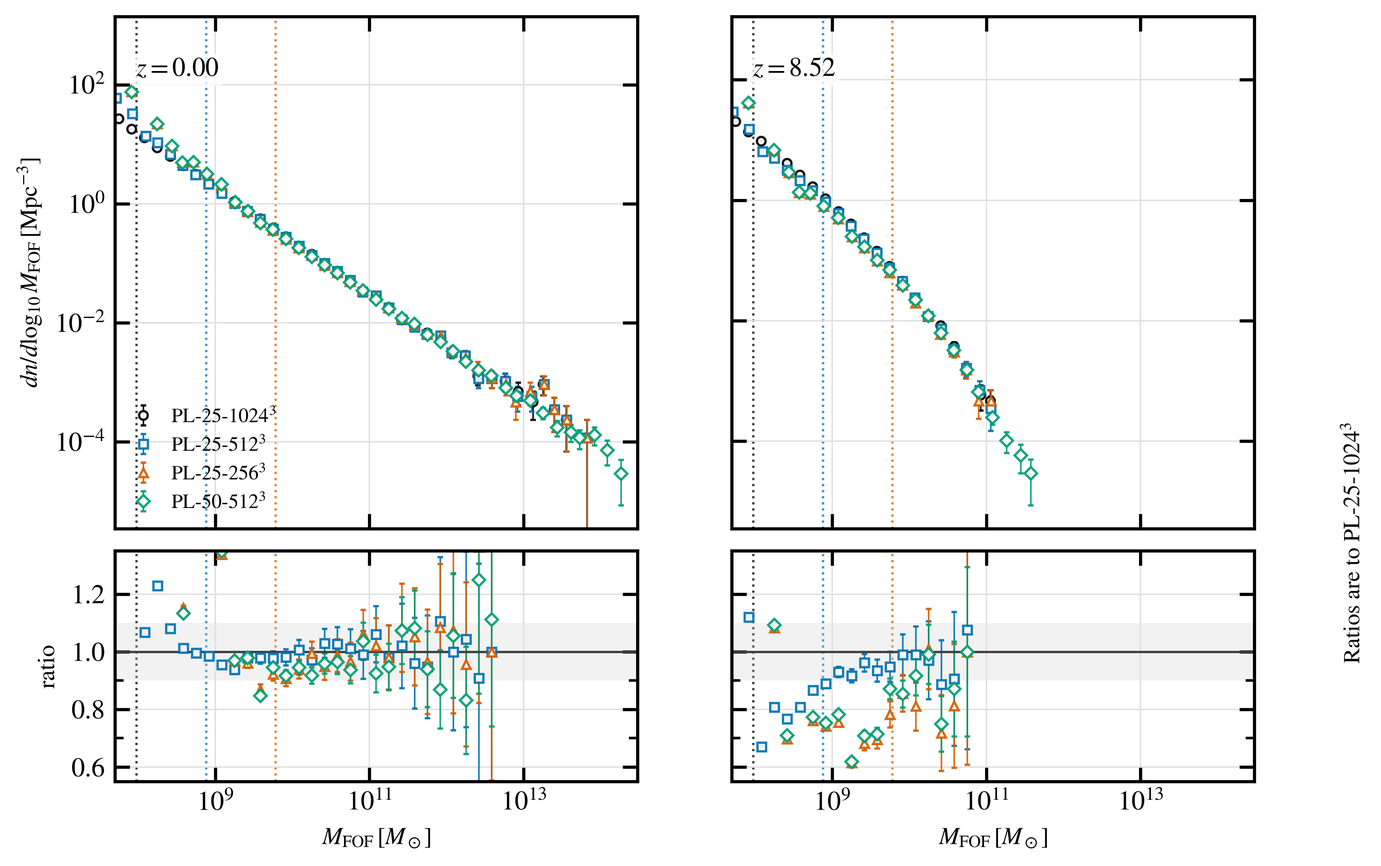
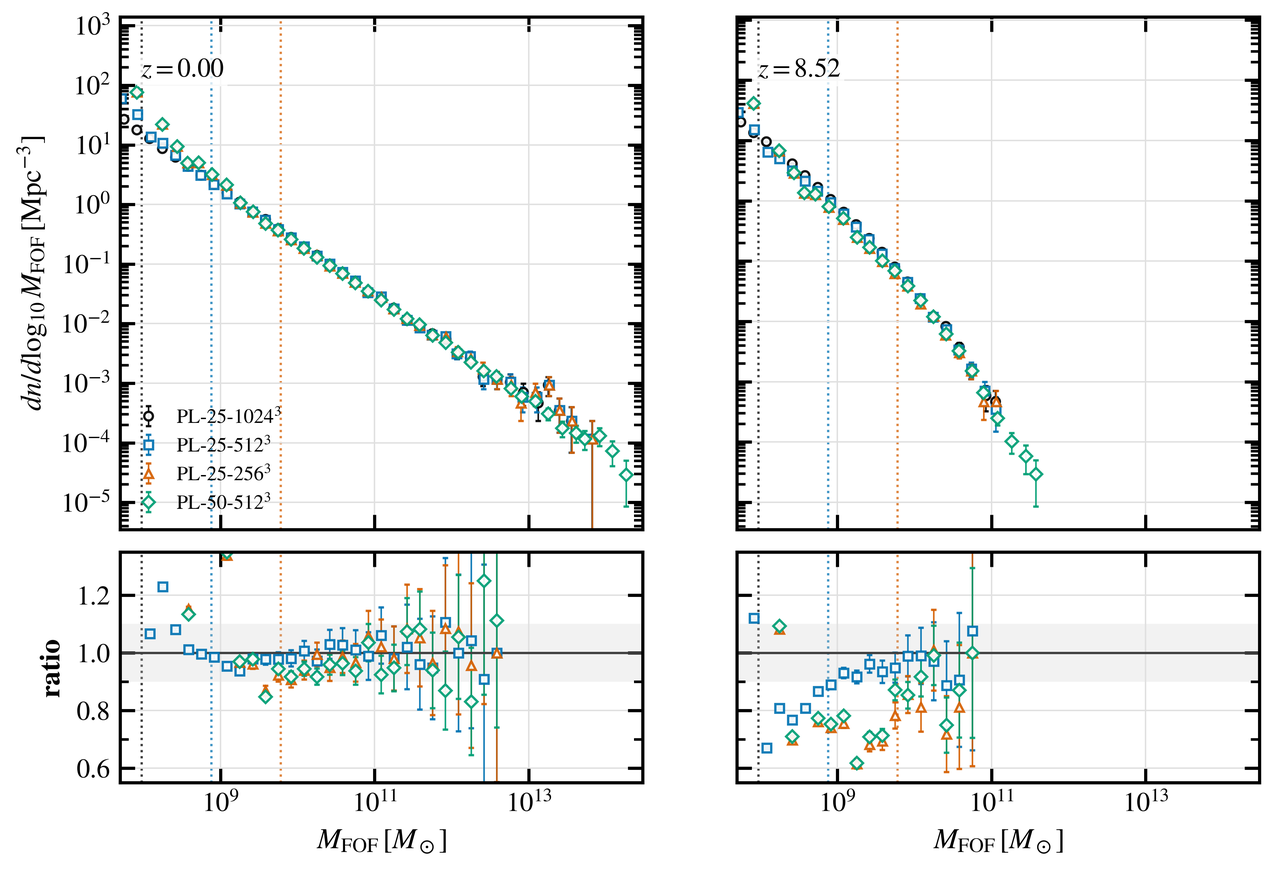
Address manuscript review and mark revisions

diff --git a/main.tex b/main.tex
@@ -23,6 +23,7 @@
 \usepackage{multirow}
 \usepackage{url}
 \usepackage{xcolor}
+\DeclareRobustCommand{\change}[1]{\textcolor{blue}{#1}}
 \newcommand{\tabcell}[2]{\parbox[t]{#1}{\raggedright #2}}
 \usepackage{hyperref}
 \usepackage{orcidlink}
@@ -121,7 +122,7 @@ The primordial power spectrum is specified by a PL or BT model such as Eq.~\eqre
 \subsection{Power-Spectrum Models and Linear Matter Power}
 \label{subsec:power_models}
 
-In the power-law (PL) model, the primordial power spectrum scales as \(P_{\rm prim}(k)\propto k^{n_s}\), where \(k\) is the comoving wavenumber and \(n_s\simeq0.96\) is the scalar spectral index \citep{Planck20CMB}.
+\change{In the power-law (PL) model, the primordial power spectrum scales as \(P_{\rm prim}(k)\propto k^{n_s}\), where \(k\) is the comoving wavenumber and \(n_s\simeq0.965\) is the scalar spectral index \citep{Planck20CMB}.}
 
 We model small-scale enhancements with blue-tilted (BT) primordial power-spectrum models \citep[e.g.][]{Hira24bluetilt,Dekker25DwarfPPS}. In these models, the spectrum follows the PL form up to \(k_p\) and becomes steeper above \(k_p\):
 \begin{equation}
@@ -170,7 +171,7 @@ Table~\ref{tab:simulation_parameters} lists the cosmological and numerical param
 
 
 \subsection{Initial Conditions}\label{sec:IC}
-We generate the initial conditions with \textsc{Music2-MonofonIC} \citep{Hahn2020MUSIC2monofonIC,Michaux2021MUSIC2monofonIC}. PL uses the Eisenstein \& Hu transfer function \citep{Eisenstein1998}. For each BT model, we modify the transfer function above \(k_p\). MonofonIC then applies a small model-dependent global normalization to reach the shared target \(\sigma_8=0.8111\). Below \(k_p\), the BT models retain the PL/Eisenstein transfer-function shape, with only this small change in overall amplitude.
+\change{We generate the initial conditions with \textsc{Music2-MonofonIC} \citep{Hahn2020MUSIC2monofonIC,Michaux2021MUSIC2monofonIC}. PL uses the Eisenstein \& Hu transfer function \citep{Eisenstein1998}. For each BT model, we modify the transfer function above \(k_p\). MonofonIC then applies a small model-dependent global normalization to reach the shared target \(\sigma_8=0.8111\). Below \(k_p\), the BT models retain the PL/Eisenstein shape. Over \(0.01\le k/(h\,{\rm Mpc}^{-1})\le0.1\), the input linear power is about \(0.033\%\) lower than PL for \BTKPone{} and about \(9\times10^{-6}\%\) lower for \BTKPten{}.}
 
 For each set of corresponding PL and BT runs, we keep the background cosmology, numerical settings, and MonofonIC random seed fixed. The main PL, \BTKPone{}, and \BTKPten{} \(25\,h^{-1}{\rm Mpc}\), \(1024^3\) simulations therefore share the same initial random phases. Using the same phases reduces sample variance in the PL--BT comparisons.
 
@@ -200,11 +201,11 @@ Table~\ref{tab:simulation_parameters} lists the three simulations used for the m
 
 
 
-PL denotes the standard power-law primordial spectrum. Both BT models have \(m_s=1.5\), with \(k_p=1\,h\,{\rm Mpc}^{-1}\) for \BTKPone{} and \(k_p=10\,h\,{\rm Mpc}^{-1}\) for \BTKPten{}. The \(256\,h^{-1}{\rm Mpc}\) power-spectrum measurements are retained in the released auxiliary data; Fig.~\ref{fig:power_spectra_ratio_z0} uses the \(25\,h^{-1}{\rm Mpc}\) runs. The additional PL runs used for resolution and volume tests are described in Appendix~\ref{app:fof_hmf_resolution}. Appendix~\ref{app:trusted_ranges} and Table~\ref{tab:trusted_ranges} list the ranges used for quantitative statements.
+\change{PL denotes the standard power-law primordial spectrum. Both BT models have \(m_s=1.5\), with \(k_p=1\,h\,{\rm Mpc}^{-1}\) for \BTKPone{} and \(k_p=10\,h\,{\rm Mpc}^{-1}\) for \BTKPten{}. We also use \(256\,h^{-1}{\rm Mpc}\) PL, \BTKPone{}, and \BTKPten{} runs for the halo--matter bias measurement. The power-spectrum measurements from these runs are available in the auxiliary data. Figure~\ref{fig:power_spectra_ratio_z0} uses the \(25\,h^{-1}{\rm Mpc}\) runs. The particle masses in Table~\ref{tab:simulation_parameters} are given in \(h^{-1}M_\odot\). For \(h=0.6736\), the particle mass in the \(25\,h^{-1}{\rm Mpc}\) runs is \(1.89\times10^6\,M_\odot\). Halo masses and comoving number densities in the mass-function analysis are given in \(M_\odot\) and \({\rm Mpc}^{-3}\), respectively. The additional PL runs used for resolution and volume tests are described in Appendix~\ref{app:fof_hmf_resolution}. Appendix~\ref{app:trusted_ranges} and Table~\ref{tab:trusted_ranges} list the ranges used for quantitative statements.}
 
 
 \begin{table*}[t]
-\caption{Parameters of the three cosmological \(N\)-body simulations used for the main analysis. The \(k_p\) and \(m_s\) columns specify the primordial power-spectrum models (see \S\ref{sec:theory}); \(N_{\rm p}\) is the particle number; \(L_{\rm box}\) is the comoving box length; \(m_{\rm DM}\) is the dark matter particle mass; and \(\epsilon_{\rm Pl}\) is the Plummer-equivalent softening length in physical kpc at \(z=0\). All three runs share the same initial random phases. Additional PL simulations used for resolution and volume tests are described in Appendix~\ref{app:fof_hmf_resolution}.}
+\caption{\change{Parameters of the cosmological \(N\)-body simulations used in the main analysis. The \(k_p\) and \(m_s\) columns specify the primordial power-spectrum models (see \S\ref{sec:theory}); \(N_{\rm p}\) is the particle number; \(L_{\rm box}\) is the comoving box length; \(m_{\rm DM}\) is the dark matter particle mass; and \(\epsilon_{\rm Pl}\) is the Plummer-equivalent softening length in physical kpc at \(z=0\). The three \(25\,h^{-1}{\rm Mpc}\) runs share the same initial random phases. Additional PL simulations used for resolution and volume tests are described in Appendix~\ref{app:fof_hmf_resolution}.}}
 \label{tab:simulation_parameters}
 \label{tab:Params_all_models}
 \centering
@@ -216,6 +217,10 @@ Model & \(k_p\) & \(m_s\) & \(N_{\rm p}\) & \(L_{\rm box}\) & \(m_{\rm DM}\) & \
 PL & -- & -- & \(1024^3\) & 25 & \(1.27\times 10^6\) & 0.725 \\
 \BTKPone{} & 1 & 1.5 & \(1024^3\) & 25 & \(1.27\times 10^6\) & 0.725 \\
 \BTKPten{} & 10 & 1.5 & \(1024^3\) & 25 & \(1.27\times 10^6\) & 0.725 \\
+\colrule
+\change{PL} & \change{--} & \change{--} & \change{\(1024^3\)} & \change{256} & \change{\(1.37\times 10^9\)} & \change{7.42} \\
+\change{\BTKPone{}} & \change{1} & \change{1.5} & \change{\(1024^3\)} & \change{256} & \change{\(1.37\times 10^9\)} & \change{7.42} \\
+\change{\BTKPten{}} & \change{10} & \change{1.5} & \change{\(1024^3\)} & \change{256} & \change{\(1.37\times 10^9\)} & \change{7.42} \\
 \end{tabular}
 \end{ruledtabular}
 \end{table*}
@@ -293,14 +298,14 @@ Within the resolved mass range, both blue-tilted models increase the low-mass FO
 
 %The corresponding spherical-overdensity $M_{200c}$ comparison with Bocquet et al. (2016) is shown in Fig.~\ref{fig:m200c_bocquet16_hmf}.
 
-We also measure the halo mass function using the spherical-overdensity mass definition \(M_{200c}\). Here the logarithmic mass bins have width \(\Delta\log_{10}M_{200c}=0.15\) dex, and the plotted mass coordinate is the geometric bin center, \(M_{\rm cen}=\sqrt{M_{\rm low}M_{\rm high}}\), where \(M_{\rm low}\) and \(M_{\rm high}\) are the bin edges. The number density is the halo count divided by the comoving volume and logarithmic bin width. The simulation points are measured from the SOAP \texttt{SO/200\_crit} catalogs with a minimum of 100 dark matter particles per halo, corresponding to \(M_{200c}\simeq1.9\times10^8\,M_\odot\) in the main runs, and the plotted bins also impose \(M_{200c}\ge2.0\times10^8\,M_\odot\). We evaluate the Bocquet et al. (2016) \(M_{200c}\) mass function \citep{Bocquet2016} using the linear matter power spectrum of each model: PL, \BTKPone{}, and \BTKPten{}.
+\change{We also measure the halo mass function using the spherical-overdensity mass definition \(M_{200c}\). Here the logarithmic mass bins have width \(\Delta\log_{10}M_{200c}=0.15\) dex, and the plotted mass coordinate is the geometric bin center, \(M_{\rm cen}=\sqrt{M_{\rm low}M_{\rm high}}\), where \(M_{\rm low}\) and \(M_{\rm high}\) are the bin edges. We obtain \(dn/d\ln M_{200c}\) by dividing the halo count by the comoving volume and the natural-log bin width, \(\Delta\ln M_{200c}=0.15\ln 10\). The simulation points are measured from the SOAP \texttt{SO/200\_crit} catalogs with a minimum of 100 dark matter particles per halo, corresponding to \(M_{200c}\simeq1.9\times10^8\,M_\odot\) in the main runs, and the plotted bins also impose \(M_{200c}\ge2.0\times10^8\,M_\odot\). We evaluate the Bocquet et al. (2016) \(M_{200c}\) mass function \citep{Bocquet2016} using the linear matter power spectrum of each model: PL, \BTKPone{}, and \BTKPten{}.}
 
 We quantify the agreement using the median simulation-to-model ratio across mass bins above the adopted mass limit and containing at least 20 halos. At \(z=0\) and \(z=3.44\), this median differs from unity by less than \(8\%\) for every model in both the Reed et al. (2007) FOF and Bocquet et al. (2016) \(M_{200c}\) comparisons. At \(z=8.52\), the median differences increase to \(2\)--\(22\%\) for Reed et al. (2007) and \(16\)--\(32\%\) for Bocquet et al. (2016). Larger deviations occur in sparsely populated high-mass bins. Thus, the median agreement is strongest at lower redshift and less uniform at high redshift.
 
 \begin{figure*}[t]
     \centering
     \includegraphics[width=\textwidth]{mass-function-m200c-bocquet16.png}
-    \caption{Spherical-overdensity halo mass function comparison using \(M_{200c}\) masses and the Bocquet et al. (2016) (B16) fitting function. Symbols show the measured SOAP \(M_{200c}\) mass functions for PL, \BTKPone{}, and \BTKPten{}, while lines show the corresponding Bocquet et al. (2016) predictions evaluated with each model's linear matter power spectrum generated from the PL or BT primordial power-spectrum model. The SOAP catalog threshold is \(N_{\rm DM}\ge100\), where \(N_{\rm DM}\) is the number of dark matter particles in a halo. The plotted bins require \(M_{200c}\ge2.0\times10^8\,M_\odot\), close to the 100-particle scale \(1.9\times10^8\,M_\odot\). The gray vertical band marks the low-mass region below this plotted completeness threshold. Middle panels show \(\BTKPone/\mathrm{PL}\) and \(\BTKPten/\mathrm{PL}\) mass-function ratios in the same \(M_{200c}\) bins. The middle-panel y-axis range is set separately for each redshift row. Here \(f\equiv dn/d\log_{10}M_{200c}\). Bottom panels show \(\Delta f/f_{\rm B16}=(f_{\rm sim}-f_{\rm B16})/f_{\rm B16}\). Zero denotes agreement with B16. These panels use a symmetric logarithmic scale with a linear interval for \(|\Delta f/f_{\rm B16}|\le0.1\). The horizontal gray band marks this \(\pm10\%\) interval, and the y-axis range is set separately for each redshift row.}
+    \caption{\change{Spherical-overdensity halo mass function comparison using \(M_{200c}\) masses and the Bocquet et al. (2016) (B16) fitting function. Symbols show the measured SOAP \(M_{200c}\) mass functions for PL, \BTKPone{}, and \BTKPten{}, while lines show the corresponding Bocquet et al. (2016) predictions evaluated with each model's linear matter power spectrum generated from the PL or BT primordial power-spectrum model. The SOAP catalog threshold is \(N_{\rm DM}\ge100\), where \(N_{\rm DM}\) is the number of dark matter particles in a halo. The plotted bins require \(M_{200c}\ge2.0\times10^8\,M_\odot\), close to the 100-particle scale \(1.9\times10^8\,M_\odot\). The gray vertical band marks the low-mass region below this plotted completeness threshold. Middle panels show \(\BTKPone/\mathrm{PL}\) and \(\BTKPten/\mathrm{PL}\) mass-function ratios in the same \(M_{200c}\) bins. The middle-panel y-axis range is set separately for each redshift row. Here \(f\equiv dn/d\ln M_{200c}\). Bottom panels show \(\Delta f/f_{\rm B16}=(f_{\rm sim}-f_{\rm B16})/f_{\rm B16}\). Zero denotes agreement with B16. These panels use a symmetric logarithmic scale with a linear interval for \(|\Delta f/f_{\rm B16}|\le0.1\). The horizontal gray band marks this \(\pm10\%\) interval, and the y-axis range is set separately for each redshift row.}}
     \label{fig:m200c_bocquet16_hmf}
 \end{figure*}
 
@@ -309,7 +314,7 @@ We quantify the agreement using the median simulation-to-model ratio across mass
 \begin{figure*}[t]
     \centering
     \includegraphics[width=\textwidth]{halo-bias.pdf}
-    \caption{Halo--matter bias for PL, \BTKPone{}, and \BTKPten{}. Circles and triangles show FOF groups in the \(256\) and \(25\,h^{-1}{\rm Mpc}\) boxes, respectively. Diamonds show \textsc{SOAP} \(M_{200m}\) measurements for \textsc{HBT+} centrals in the smaller box. Error bars are jackknife uncertainties obtained by omitting one independent Fourier mode at a time. Solid and dashed lines show Tinker et al. (2010) at \(M_{200m}\) and Sheth--Tormen (1999), respectively. The two boxes sample the different \(k\) intervals specified in the text. At \(z=10.52\), only the smaller box has mass bins that pass the selection cuts.}
+    \caption{\change{Halo--matter bias for PL, \BTKPone{}, and \BTKPten{}. Circles and triangles show FOF groups in the \(256\) and \(25\,h^{-1}{\rm Mpc}\) boxes, respectively. Diamonds show \textsc{SOAP} \(M_{200m}\) measurements for \textsc{HBT+} centrals in the smaller box. Error bars are jackknife uncertainties obtained by omitting one independent Fourier mode at a time. Solid and dashed lines show Tinker et al. (2010) \protect\cite{Tinker2010HaloBias} at \(M_{200m}\) and Sheth--Tormen (1999) \protect\cite{ShethTormen1999Bias}, respectively. Halo masses are shown in \(h^{-1}M_\odot\). The two boxes sample the different \(k\) intervals specified in the text. At \(z=10.52\), only the smaller box has mass bins that pass the selection cuts.}}
     \label{fig:halo_bias}
 \end{figure*}
 
@@ -321,10 +326,10 @@ The mass function measures the abundance of halos. To measure how halos trace th
 \end{equation}
 where the sums run over independent Fourier modes in the selected \(k\) interval. We use \(0.03\leq k/(h\,{\rm Mpc}^{-1})\leq0.15\) for the \(256\,h^{-1}{\rm Mpc}\) box and \(0.25\leq k/(h\,{\rm Mpc}^{-1})\leq0.60\) for the \(25\,h^{-1}{\rm Mpc}\) box. Each halo contains at least 100 dark matter particles, and each \(0.30\)-dex mass bin contains at least 200 halos. We plot the median mass in each bin. The FOF measurements use the group masses as recorded in the catalogs. For PL and \BTKPone{} in the smaller box, we also measure bias for \textsc{HBT+} central halos \citep{Han2018HBTPlus} using their \textsc{SOAP} \(M_{200m}\), the mass enclosed at 200 times the mean matter density.
 
-Figure~\ref{fig:halo_bias} compares the measurements with the \citet{ShethTormen1999Bias} and \citet{Tinker2010HaloBias} relations. We evaluate both at \(\nu=\delta_{\rm c}/\sigma(M,z)\), with \(\delta_{\rm c}=1.686\) and \(\sigma(M,z)\) computed from the linear matter spectrum of each model. At \(z=6.15\) in the smaller box, the median \BTKPone{}/PL bias ratio across the seven common mass bins is \(0.58\) for FOF and \(0.59\) for the \(M_{200m}\) sample. The corresponding \BTKPten{}/PL FOF ratio is \(1.00\). At \(z=10.52\), the small-box \(M_{200m}\) points lie closer to Sheth--Tormen in both PL and \BTKPone{}. This comparison uses the small-box \(k\) window and extends beyond the redshift range of the Tinker calibration, which reaches \(z=2.5\).
+\change{Figure~\ref{fig:halo_bias} shows the \citet{ShethTormen1999Bias} relation, based on spherical-overdensity halo catalogs, and the \citet{Tinker2010HaloBias} relation for \(M_{200m}\). We evaluate both at \(\nu=\delta_{\rm c}/\sigma(M,z)\), with \(\delta_{\rm c}=1.686\). We compute \(\sigma(M,z)\) by smoothing each model's linear density field with a spherical top-hat window whose comoving radius encloses mass \(M\) at the present mean matter density. The comparison with the FOF measurements therefore uses a different halo mass definition. At \(z=6.15\) in the smaller box, the median \BTKPone{}/PL bias ratio across the seven common mass bins is \(0.58\) for FOF and \(0.59\) for the \(M_{200m}\) sample. The corresponding \BTKPten{}/PL FOF ratio is \(1.00\). At \(z=10.52\), the small-box \(M_{200m}\) points lie closer to Sheth--Tormen in both PL and \BTKPone{}. This comparison uses the small-box \(k\) window and extends beyond the redshift range of the Tinker calibration, which reaches \(z=2.5\).}
 
 \subsection{Half-Mass Redshift\label{subsub:HMR}}
-The half-mass assembly redshift, \(z_{1/2}\), is the redshift at which a \(z=0\) halo first reaches half of its final FOF mass. We use the main progenitor branch defined in Sec.~\ref{subsec:halo_catalogs}. For each \(z=0\) FOF halo, we follow its persistent \textsc{HBT-HERONS} \texttt{TrackId} over snapshots 0021--0056 and record its Warren-corrected FOF mass. We determine \(z_{1/2}\) by linear interpolation between the first pair of consecutive snapshots in which the recorded FOF mass increases through \(M_0/2\). The same procedure is applied to PL, \BTKPone{}, and \BTKPten{}.
+\change{The half-mass assembly redshift, \(z_{1/2}\), is the redshift at which a \(z=0\) halo first reaches half of its final FOF mass \(M_0\). We use the main progenitor branch defined in Sec.~\ref{subsec:halo_catalogs}. For each \(z=0\) FOF halo, we follow its persistent \textsc{HBT-HERONS} \texttt{TrackId} over snapshots 0021--0056 and record its Warren-corrected FOF mass. We determine \(z_{1/2}\) by linear interpolation between the first pair of consecutive snapshots in which the recorded FOF mass increases through \(M_0/2\). The same procedure is applied to PL, \BTKPone{}, and \BTKPten{}.}
 
 We do not fill missing snapshots or force the recorded mass histories to increase monotonically. Temporary FOF bridge or split events can therefore remove a halo from the measurable sample or produce a temporary mass decrease.
 
@@ -332,9 +337,9 @@ Figure~\ref{fig:half_mass_redshift} compares our measurements with the relations
 
 For the 15 resolved PL bins spanning \(1.25\times10^9\le M_{\rm FOF}/M_\odot\le8.22\times10^{11}\), the mean absolute offset \(\langle|z_{1/2}^{\rm PL}-z_{1/2}^{\rm ref}|\rangle\) is \(0.053\) from BK09 and \(0.097\) from COCO/Hellwing16. The maximum absolute offsets are \(0.128\) and \(0.207\), respectively. Thus, the PL measurements follow both external relations to within about \(0.1\) in \(z_{1/2}\) on average.
 
-At low final masses, halos in both blue-tilted models form earlier than PL halos, with the largest shift in \BTKPone{}. Around \(M_{z=0}\simeq1.25\times10^9\,M_\odot\), the mean \(z_{1/2}\) is \(2.28\) for PL, \(4.24\) for \BTKPone{}, and \(2.61\) for \BTKPten{}. The corresponding shifts relative to PL are \(\Delta z_{1/2}=1.96\) for \BTKPone{} and \(0.33\) for \BTKPten{}.
+\change{At low final masses, halos in both blue-tilted models form earlier than PL halos, with the largest shift in \BTKPone{}. Around \(M_0\simeq1.25\times10^9\,M_\odot\), the mean \(z_{1/2}\) is \(2.28\) for PL, \(4.24\) for \BTKPone{}, and \(2.61\) for \BTKPten{}. The corresponding shifts relative to PL are \(\Delta z_{1/2}=1.96\) for \BTKPone{} and \(0.33\) for \BTKPten{}.}
 
-Around \(M_{z=0}\simeq7.9\times10^9\,M_\odot\), the mean \(z_{1/2}\) values are \(1.95\), \(3.12\), and \(2.05\) for PL, \BTKPone{}, and \BTKPten{}, giving BT--PL shifts of \(1.17\) and \(0.10\). At \(M_{z=0}\simeq2.0\times10^{11}\,M_\odot\), the values are \(1.43\), \(1.78\), and \(1.39\), respectively. The model with the largest high-redshift HMF enhancement therefore also has the largest assembly-time shift, especially below \(\sim10^{10}\,M_\odot\).
+\change{Around \(M_0\simeq7.9\times10^9\,M_\odot\), the mean \(z_{1/2}\) values are \(1.95\), \(3.12\), and \(2.05\) for PL, \BTKPone{}, and \BTKPten{}, giving BT--PL shifts of \(1.17\) and \(0.10\). At \(M_0\simeq2.0\times10^{11}\,M_\odot\), the values are \(1.43\), \(1.78\), and \(1.39\), respectively. The model with the largest high-redshift HMF enhancement therefore also has the largest assembly-time shift, especially below \(\sim10^{10}\,M_\odot\).}
 
 \begin{figure*}[t]
     \centering
@@ -355,9 +360,8 @@ At each snapshot, only halos with an identified main progenitor contribute to th
 
 %\Tk{cite  (Bond et al. 1991; Lacey \& Cole 1993) for EPS}
 
-We compare these histories with the \citet{Correa2015MAHI} mass-assembly model. This model is based on the extended Press--Schechter (EPS) framework \citep{Bond1991ExcursionSet,LaceyCole1993MergerRates}:
+\change{We compare these histories with the \citet{Correa2015MAHI} mass-assembly model. This model is based on the extended Press--Schechter (EPS) framework \citep{Bond1991ExcursionSet,LaceyCole1993MergerRates}.}
 
-In the Correa model, \(\widetilde z_{\rm f}\) is defined by \(M(\widetilde z_{\rm f})=M_0/q\). This differs from the half-mass redshift \(z_{1/2}\), defined by \(M(z_{1/2})=M_0/2\).
 \begin{equation}
 \label{eq:correa2015_mah}
 M(z)=M_0(1+z)^{a f(M_0)}\exp[-f(M_0)z],
@@ -378,6 +382,7 @@ q&=4.137\,\widetilde z_{\rm f}^{-0.9476}.
 \end{aligned}
 \label{eq:correa_q_closure}
 \end{equation}
+\change{The Correa formation redshift satisfies \(M(\widetilde z_{\rm f})=M_0/q\), while the half-mass redshift satisfies \(M(z_{1/2})=M_0/2\).}
 
 For the Correa-EPS curves, we use the Planck 2018 cosmology in Sec.~\ref{subsec:cosmo_params} for linear growth, the mean matter density that sets the smoothing scale, and the normalization of the PL and \BTKPone{} linear matter power spectra, and adopt the WMAP5 relations for \(\widetilde z_{\rm f}(M_0)\) and \(q(\widetilde z_{\rm f})\) from \citet{Correa2015MAHI}. For the model curves, we evaluate \(a=1+1.686\sqrt{2/\pi}\,[\mathrm{d}D/\mathrm{d}z]_{z=0}=0.292\) using the Planck 2018 growth factor, normalized to \(D(0)=1\), and compute \(S(M)\) from each simulation model's linear spectrum. The parameter \(q\) sets the progenitor mass scale \(M_0/q\) in the EPS calculation. Across the six mass bins in Fig.~\ref{fig:mass_assembly_history_correa}, \(q\) ranges from 2.68 to 3.20. At fixed \(M_0\), we use the same \(q\), \(\widetilde z_{\rm f}\), and \(a\) for PL and \BTKPone{}. The two predictions differ only because their linear matter power spectra give different values of \(S(M_0/q)-S(M_0)\). None of these parameters is fitted to our simulations.
 
@@ -397,7 +402,7 @@ The same trend follows from Eqs.~(\ref{eq:correa2015_mah}) and (\ref{eq:correa20
 \begin{figure*}[t]
     \centering
     \includegraphics[width=\textwidth]{mass-assembly-history-correa.png}
-    \caption{{\it Upper panel:} Median FOF mass-assembly histories for halos selected at \(z=0\). Circles show PL simulation medians, and triangles show \BTKPone{} medians; the figure legend abbreviates the latter as BT. Colors indicate six final-mass windows centered on \(10^9\), \(3\times10^9\), \(10^{10}\), \(3\times10^{10}\), \(10^{11}\), and \(3\times10^{11}\,M_\odot\), each with a half-width of 0.1 dex. Halos are followed through their persistent \texttt{TrackId}, and each point is the median positive Warren-corrected FOF mass among the selected halos detected at that snapshot. Error bars show the 16th--84th percentile halo-to-halo range of \(M(z)\) in each final-mass window. Dashed and dotted curves show the Correa-EPS calculations using the published \(q\) and \(\widetilde z_{\rm f}\) relations and the PL or \BTKPone{} linear matter power spectrum. {\it Middle panel:} Ratio of each simulation median to the corresponding Correa-EPS curve at the same redshift. The error bars show the same halo-to-halo intervals divided by the Correa-EPS value. {\it Lower panel:} Ratio of the normalized \BTKPone{} and PL simulation histories, \((M/M_0)_{\rm BT}/(M/M_0)_{\rm PL}\), in each final-mass window. Horizontal lines mark unity. Quantitative interpretation is restricted to \(M_0\ge10^9\,M_\odot\).}
+    \caption{\change{{\it Upper panel:} Median FOF mass-assembly histories for halos selected at \(z=0\). Circles show PL simulation medians, and triangles show \BTKPone{} medians. Colors indicate six final-mass windows centered on \(10^9\), \(3\times10^9\), \(10^{10}\), \(3\times10^{10}\), \(10^{11}\), and \(3\times10^{11}\,M_\odot\), each with a half-width of 0.1 dex. Halos are followed through their persistent \texttt{TrackId}, and each point is the median positive Warren-corrected FOF mass among the selected halos detected at that snapshot. Error bars show the 16th--84th percentile halo-to-halo range of \(M(z)\) in each final-mass window. Dashed and dotted curves show the Correa-EPS calculations using the published \(q\) and \(\widetilde z_{\rm f}\) relations and the PL or \BTKPone{} linear matter power spectrum. {\it Middle panel:} Ratio of each simulation median to the corresponding Correa-EPS curve at the same redshift. The error bars show the same halo-to-halo intervals divided by the Correa-EPS value. {\it Lower panel:} Ratio of the normalized \BTKPone{} and PL simulation histories, \((M/M_0)_{\rm BT}/(M/M_0)_{\rm PL}\), in each final-mass window. Horizontal lines mark unity. Quantitative interpretation is restricted to \(M_0\ge10^9\,M_\odot\).}}
     \label{fig:mass_assembly_history_correa}
 \end{figure*}
 
@@ -455,9 +460,9 @@ A separate study in preparation (Wu, Chan, Lange, \& Huang) examines the Diemer 
 
 \subsection{Power Spectrum\label{subsub:PS}}
 
-We measure the nonlinear matter power spectrum from the full dark matter density field. For each snapshot, we assign particle masses to the nearest cells of a \(1024^3\) Cartesian mesh and compute the isotropically averaged spectrum with the \textsc{swiftsimio} power-spectrum utilities. We subtract the Poisson term \(P_{\rm shot}=L_{\rm box}^3/N_{\rm p}\), where \(N_{\rm p}\) is the total number of particles. The nearest-grid-point window is not deconvolved. We use the phase-pair-averaged spectra \citep{Pontzen2016Inverted} (see \S\ref{sec:IC} for details) for the \(25\,h^{-1}{\rm Mpc}\) runs and form the BT/PL ratios from these spectra.
+\change{We measure the nonlinear matter power spectrum from the full dark matter density field. For each snapshot, we assign particle masses to the nearest cells of a \(1024^3\) Cartesian mesh and compute the isotropically averaged spectrum with the \textsc{swiftsimio} power-spectrum utilities. We subtract the Poisson term \(P_{\rm shot}=L_{\rm box}^3/N_{\rm p}\), where \(N_{\rm p}\) is the total number of particles. The absolute spectra include smoothing by the nearest-grid-point window. A common window factor cancels in the ratio of individual BT and PL modes. The ratios of shell-averaged spectra can still contain residual aliasing. We use the phase-pair-averaged spectra \citep{Pontzen2016Inverted} (see \S\ref{sec:IC} for details) for the \(25\,h^{-1}{\rm Mpc}\) runs and form the BT/PL ratios from these spectra.}
 
-Figure~\ref{fig:power_spectra_ratio_z0} compares PL, \BTKPone{}, and \BTKPten{} at four redshifts. The displayed interval is \(10k_{\rm f}\le k\le0.25k_{\rm Ny}\), or \(2.51\lesssim k/(h\,{\rm Mpc}^{-1})\lesssim32.2\), where \(k_{\rm f}=2\pi/L_{\rm box}\) and \(k_{\rm Ny}=\pi N_{\rm mesh}/L_{\rm box}\), with \(N_{\rm mesh}=1024\). The BT and PL spectra in each ratio are measured within the same box. The finite box excludes long-wavelength modes and can shift the absolute power\citep{Takahashi2008FiniteModes}.
+\change{Figure~\ref{fig:power_spectra_ratio_z0} compares PL, \BTKPone{}, and \BTKPten{} at four redshifts. The displayed interval is \(10k_{\rm f}\le k\le0.25k_{\rm Ny}\), or \(2.51\lesssim k/(h\,{\rm Mpc}^{-1})\lesssim32.2\), where \(k_{\rm f}=2\pi/L_{\rm box}\) and \(k_{\rm Ny}=\pi N_{\rm mesh}/L_{\rm box}\), with \(N_{\rm mesh}=1024\). The BT and PL spectra in each ratio are measured within the same box. The finite box excludes long-wavelength modes and can shift the absolute power~\citep{Takahashi2008FiniteModes}.}
 
 \BTKPone{} has more small-scale power than PL, with a larger enhancement at higher redshift and higher \(k\). At \(z=0\), the power exceeds PL by approximately \(5\%\), \(11\%\), and \(16\%\) near \(k=5\), \(10\), and \(20\,h\,{\rm Mpc}^{-1}\), respectively. At \(z=8.52\) and \(k\simeq20\,h\,{\rm Mpc}^{-1}\), the enhancement is approximately \(321\%\) (lower panels of Fig.~\ref{fig:power_spectra_ratio_z0}). At this point, \(P_{\rm PL}\simeq3.10\times10^{-3}\) and \(P_{\rm BT}\simeq1.30\times10^{-2}\) in units of \(h^{-3}\,{\rm Mpc}^3\), with \(k^3P_{\rm PL}/(2\pi^2)\simeq1.28\). The subtracted Poisson term is about \(0.5\%\) of \(P_{\rm PL}\). In contrast, \BTKPten{} remains close to PL at low redshift and shows a modest high-\(k\) enhancement at \(z=8.52\). The lower pivot in \BTKPone{} therefore leaves a stronger imprint on nonlinear matter clustering.
 
@@ -515,13 +520,13 @@ We used dark-matter-only cosmological \(N\)-body simulations to quantify how enh
 
 The main conclusions are as follows:
 \begin{enumerate}
-    \item Enhanced small-scale primordial power increases halo abundance most strongly at low mass and high redshift (Sec.~\ref{subsub:HMF}). At friend-of-friend halo mass \(M_{\rm FOF}\simeq1.21\times10^9\,M_\odot\), the \BTKPone{}/PL ratio decreases from \(4.81\) at \(z=8.52\) to \(1.42\) at \(z=0\), while \BTKPten{} produces a smaller change. The  \(M_{200c}\) (halo mass with 200 critical density) mass function shows the same trend (Fig.~\ref{fig:m200c_bocquet16_hmf}).
+    \item \change{Enhanced small-scale primordial power increases halo abundance most strongly at low mass and high redshift (Sec.~\ref{subsub:HMF}). At a friends-of-friends halo mass \(M_{\rm FOF}\simeq1.21\times10^9\,M_\odot\), the \BTKPone{}/PL ratio decreases from \(4.81\) at \(z=8.52\) to \(1.42\) at \(z=0\), while \BTKPten{} produces a smaller change. The \(M_{200c}\) spherical-overdensity mass function shows the same trend (Fig.~\ref{fig:m200c_bocquet16_hmf}).}
 
     The median differences between the simulations and analytic models of Reed et al. (2007) \citep{Reed_2007} and Bocquet et al. (2016) \citep{Bocquet2016} are below \(8\%\) at \(z=0\) and \(3.44\), but reach \(32\%\) at \(z=8.52\).
 
-    \item Enhanced small-scale primordial power shifts halo assembly earlier (Sec.~\ref{subsub:HMR}). For halos with present-day halo mass \(M_{z=0}\simeq1.25\times10^9\,M_\odot\), the half-mass assembly redshift \(z_{1/2}\) increases from \(2.28\) in PL to \(4.24\) in \BTKPone{} and \(2.61\) in \BTKPten{}. The full mass-assembly histories also show earlier assembly in \BTKPone{} than in PL (Sec.~\ref{subsub:MAH}).
+    \item \change{Enhanced small-scale primordial power shifts halo assembly earlier (Sec.~\ref{subsub:HMR}). For halos with a present-day halo mass \(M_0\simeq1.25\times10^9\,M_\odot\), the half-mass assembly redshift \(z_{1/2}\) increases from \(2.28\) in PL to \(4.24\) in \BTKPone{} and \(2.61\) in \BTKPten{}. The full mass-assembly histories also show earlier assembly in \BTKPone{} than in PL (Sec.~\ref{subsub:MAH}).}
 
-    Across \(10^9\le M_{z=0}/M_\odot\le10^{11}\), the Correa et al. (2015) curves \citep{Correa2015MAHI} agree with the median histories by \(< 46\%\) for PL and \(<9\%\) for \BTKPone{} over the redshifts used for the comparison.
+    \change{Across \(10^9\le M_0/M_\odot\le10^{11}\), the Correa et al. (2015) curves \citep{Correa2015MAHI} agree with the median histories by \(< 46\%\) for PL and \(<9\%\) for \BTKPone{} over the redshifts used for the comparison.}
 
     \item The \BTKPone{} run has denser resolved inner profiles, while the \BTKPten{}/PL density ratio stays between \(0.93\) and \(1.08\) outside the shaded convergence limits (Sec.~\ref{subsub:DensityProfile}). Both blue-tilted runs have higher concentrations at low halo mass (Sec.~\ref{subsub:concentration}). At \(z=0\), the median \(c_{200c}\) in the \(10^9\)--\(10^{9.5}\,M_\odot\) bin is higher than PL by factors of \(3.20\) for \BTKPone{} and \(1.35\) for \BTKPten{}.
 
@@ -529,7 +534,7 @@ The main conclusions are as follows:
     For the \(0.25\)-dex mass bins lying wholly above \(M_{200c}=1.89\times10^9\,M_\odot\) and containing at least 20 halos, the Diemer \& Joyce (2019) concentration-mass relation agrees with the simulation medians within \(20\%\) for PL, \BTKPone{}, and \BTKPten{} at all four redshifts (Sec.~\ref{subsub:concentration}) \citep{Diemer2019}.
 
 
-    \item \BTKPone{} increases the nonlinear matter power at high \(k\), with a larger enhancement at higher redshift. At \(k\simeq20\,h\,{\rm Mpc}^{-1}\), \BTKPone{} has approximately 16\% and 321\% more power than PL at \(z=0\) and \(z=8.52\), respectively. However, \BTKPten{} power spectrum remains close to PL (Sec.~\ref{subsub:PS}; Fig.~\ref{fig:power_spectra_ratio_z0}).
+    \item \change{\BTKPone{} increases the nonlinear matter power at high \(k\), with a larger enhancement at higher redshift. At \(k\simeq20\,h\,{\rm Mpc}^{-1}\), \BTKPone{} has approximately 16\% and 321\% more power than PL at \(z=0\) and \(z=8.52\), respectively. The \BTKPten{} power spectrum remains close to PL (Sec.~\ref{subsub:PS}; Fig.~\ref{fig:power_spectra_ratio_z0}).}
 \end{enumerate}
 
 
@@ -538,14 +543,14 @@ Future work should test other enhanced primordial spectra, including localized G
 \section*{Data Availability}
 
 
-The reduced data, compact per-halo catalogs, and figure reproduction materials are archived in the complete version 1.1.0 release on Zenodo \footnote{\url{https://doi.org/10.5281/zenodo.23788725}}. The manuscript source, reduced tables, and analysis scripts are also available on GitHub\footnote{\url{https://github.com/HainaHuang729/nonlinear-evolution-of-cosmological-structures-with-enhanced-primordial-power-spectrum}}.
+\change{The reduced data, compact per-halo catalogs, and figure reproduction materials are archived in the complete version 1.1.0 release on Zenodo \footnote{\url{https://doi.org/10.5281/zenodo.23788725}}. The manuscript source, reduced tables, and analysis scripts are also available on \href{https://github.com/HainaHuang729/nonlinear-evolution-of-cosmological-structures-with-enhanced-primordial-power-spectrum}{GitHub}.}
 The archive contains the input linear matter power spectra, binned halo mass functions, half-mass redshift summaries, median mass-assembly histories, Correa-comparison curves, radial-density profile summaries, concentration--mass summaries, and nonlinear matter power-spectrum measurements. It also includes nine compressed HDF5 files containing the individual halo inputs at six snapshots, tracked mass histories, and radial-profile selections; the clean projected-density mosaic and panel metadata; radial-profile bootstrap caches; and the project \textsc{Colossus} source. The README, dependency specifications, validation reports, and checksum manifests document catalog validation and figure reproduction.
 The full simulation snapshots, particle coordinates, and complete \textsc{HBT-HERONS}/\textsc{SOAP} catalogs are not included because of their substantially larger size. The released projection and radial-profile products document the viewing geometry and halo selections used in this paper. The reduced profiles and plotting inputs for the updated most-bound-particle measurement are available in the GitHub repository. The reduced halo--matter bias table and plotting script accompany the manuscript source.
 
 \begin{acknowledgments}
 
 
-The research in this paper used version 1.0.0 of the {\small SWIFT} open-source simulation code \citep{ascl18SWIFT} (available at \url{https://www.swiftsim.com}), {\small MONOFONIC} \citep{Hahn2020MUSIC2monofonIC,Michaux2021MUSIC2monofonIC}, {\small HBT-HERONS} \citep{Victor25HBTHERONS}, {\small SOAP} \citep{McGibbon2025SOAP}, and {\small COLOSSUS} \citep{Diemer2018}. This work also used matplotlib \citep{Hunt07matplotlib}, numpy \citep{vand11numpy}, scipy \citep{Virt20scipy}, and NASA's Astrophysics Data System.
+\change{The research in this paper used version 1.0.0 of the {\small SWIFT} open-source simulation code \citep{Schaller2024SWIFT} (available at \url{https://www.swiftsim.com}), {\small MonofonIC} \citep{Hahn2020MUSIC2monofonIC,Michaux2021MUSIC2monofonIC}, {\small HBT-HERONS} \citep{Victor25HBTHERONS}, {\small SOAP} \citep{McGibbon2025SOAP}, and {\small COLOSSUS} \citep{Diemer2018}. This work also used matplotlib \citep{Hunt07matplotlib}, numpy \citep{vand11numpy}, scipy \citep{Virt20scipy}, and NASA's Astrophysics Data System.}
 
 
 TKC is supported by the `Improvement on Competitiveness in Hiring New Faculties' Funding Scheme (4937210-4937211-4937212), the Direct Grant project (4053662,4443786,4053719) from the Chinese University of Hong Kong, and the Research Grants Council (RGC) Early Career Scheme (24301524).

diff --git a/public_data/scripts/plot_mass_assembly_history_correa.py b/public_data/scripts/plot_mass_assembly_history_correa.py
@@ -272,7 +272,6 @@ def make_figure(
     ax.set_xlim(0.0, np.log10(1.0 + Z_MAX))
     ax.set_ylim(5.0e6, 7.0e11)
     ax.set_ylabel(r"Median $M(z)\,[M_\odot]$", labelpad=8)
-    ax.set_title("Median MAHs and spectrum-specific Correa-EPS relations", pad=7)
     format_axes(ax, grid=True)
 
     ratio_ax.axhline(1.0, color="0.25", lw=0.75, zorder=1)
@@ -293,9 +292,9 @@ def make_figure(
 
     style_handles = [
         plt.Line2D([], [], color="0.25", ls="none", marker="o", markersize=3.0, label="PL median"),
-        plt.Line2D([], [], color="0.25", ls="none", marker="^", markersize=3.2, label="BT median"),
+        plt.Line2D([], [], color="0.25", ls="none", marker="^", markersize=3.2, label=r"$\mathrm{BT}_{k_p=1}$ median"),
         plt.Line2D([], [], color="0.25", lw=1.1, ls="--", label="PL Correa-EPS"),
-        plt.Line2D([], [], color="0.25", lw=1.1, ls=":", label="BT Correa-EPS"),
+        plt.Line2D([], [], color="0.25", lw=1.1, ls=":", label=r"$\mathrm{BT}_{k_p=1}$ Correa-EPS"),
     ]
     first = ax.legend(
         handles=style_handles,
@@ -306,10 +305,13 @@ def make_figure(
     )
     ax.add_artist(first)
 
-    mass_handles = [
-        plt.Line2D([], [], color=color, lw=1.8, label=rf"${target:.0e}$")
-        for target, color in zip(TARGETS, colors)
-    ]
+    mass_handles = []
+    for target, color in zip(TARGETS, colors):
+        exponent = int(np.floor(np.log10(target)))
+        coefficient = round(target / 10**exponent)
+        power = "10^{%d}" % exponent
+        label = "$" + (rf"{coefficient}\times" if coefficient != 1 else "") + power + "$"
+        mass_handles.append(plt.Line2D([], [], color=color, lw=1.8, label=label))
     ax.legend(
         handles=mass_handles,
         title=r"$M_0\,[M_\odot]$",

diff --git a/public_data/scripts/concentration_qc_kp10.py b/public_data/scripts/concentration_qc_kp10.py
@@ -623,7 +623,7 @@ def plot_theory_figure(theory_model, stats_by_snap, mass_msun):
         row = i // 2
         col = i % 2
         inner_grid = outer_grid[row, col].subgridspec(
-            3, 1, height_ratios=[4.0, 1.15, 1.25], hspace=0.10
+            3, 1, height_ratios=[4.0, 1.25, 1.32], hspace=0.16
         )
         ax = fig.add_subplot(inner_grid[0])
         ax_residual = fig.add_subplot(inner_grid[1], sharex=ax)
@@ -699,13 +699,14 @@ def plot_theory_figure(theory_model, stats_by_snap, mass_msun):
             ax.set_ylabel(r"$\log_{10}(c_{200c})$", fontweight="bold", labelpad=5)
             ax_residual.set_ylabel(
                 rf"$c_{{\rm sim}}/{theory_style['math_label']}$",
+                fontsize=10,
                 fontweight="bold",
                 labelpad=5,
             )
-            ax_scatter.set_ylabel(r"$\sigma_{68}(\log_{10}c)$", fontweight="bold", labelpad=5)
+            ax_scatter.set_ylabel(r"$\sigma_{68}(\log_{10}c)$", fontsize=10, fontweight="bold", labelpad=5)
             ax.yaxis.set_label_coords(LEFT_LABEL_X, 0.5)
-            ax_residual.yaxis.set_label_coords(LEFT_LABEL_X, 0.56)
-            ax_scatter.yaxis.set_label_coords(LEFT_LABEL_X, 0.42)
+            ax_residual.yaxis.set_label_coords(LEFT_LABEL_X, 0.55)
+            ax_scatter.yaxis.set_label_coords(LEFT_LABEL_X, 0.43)
         else:
             ax.tick_params(axis="y", labelleft=False)
             ax_residual.tick_params(axis="y", labelleft=False)

diff --git a/public_data/scripts/plot_fof_hmf_resolution.py b/public_data/scripts/plot_fof_hmf_resolution.py
@@ -447,7 +447,6 @@ def make_figure(results):
         ax_hmf.tick_params(labelbottom=False)
 
     axes[0, 0].legend(loc="lower left", fontsize=7.0, handlelength=1.2)
-    fig.text(0.975, 0.35, r"Ratios are to PL-25-$1024^3$", rotation=90, va="center", ha="right", fontsize=8.0)
     fig.savefig(OUTPUT_FIGURE)
     plt.close(fig)
     return OUTPUT_FIGURE

diff --git a/reviewer_comments_record.md b/reviewer_comments_record.md
@@ -1505,3 +1505,10 @@ HBT shards were read. The center-of-mass rerun agrees with the released density
 medians to within 5e-10 relative. The revised figure uses the uniformly
 most-bound-centered stacks and their recalculated Power03 limits. The GitHub
 reproduction inputs are in public_data/particle_profiles_paired/.
+
+## 2026-11-17 Full-manuscript review
+
+- **Figure 4 normalization.** The released number densities and Poisson errors imply a natural-log bin width of $0.15\ln 10$ for all 675 rows. The Bocquet curves use the same differential convention. The text and caption now define $dn/d\ln M_{200c}$, with mass bins spaced by 0.15 dex.
+- **Halo bias.** The bias code uses a spherical top-hat to compute the linear variance. Sheth and Tormen (1999), Section 2, used a spherical-overdensity group finder. The text now states both facts, identifies the mass-definition difference for the FOF comparison, and specifies the mass units in the caption. Table I includes the three 256-box runs used by the bias figure. Snapshot metadata confirms the particle count and softening.
+- **Initial conditions and methods.** Quantified the below-pivot normalization offset from the released input spectra. Distinguished the common NGP window factor from residual aliasing. Moved the Correa formation-redshift definition after the closure equations.
+- **Figures and references.** Cleared the row-label overlaps in the concentration figures, updated the mass-assembly legend and removed the title, and removed the redundant label from the FOF resolution figure. Corrected notation, reference formatting, and the SWIFT citation in the acknowledgments.
